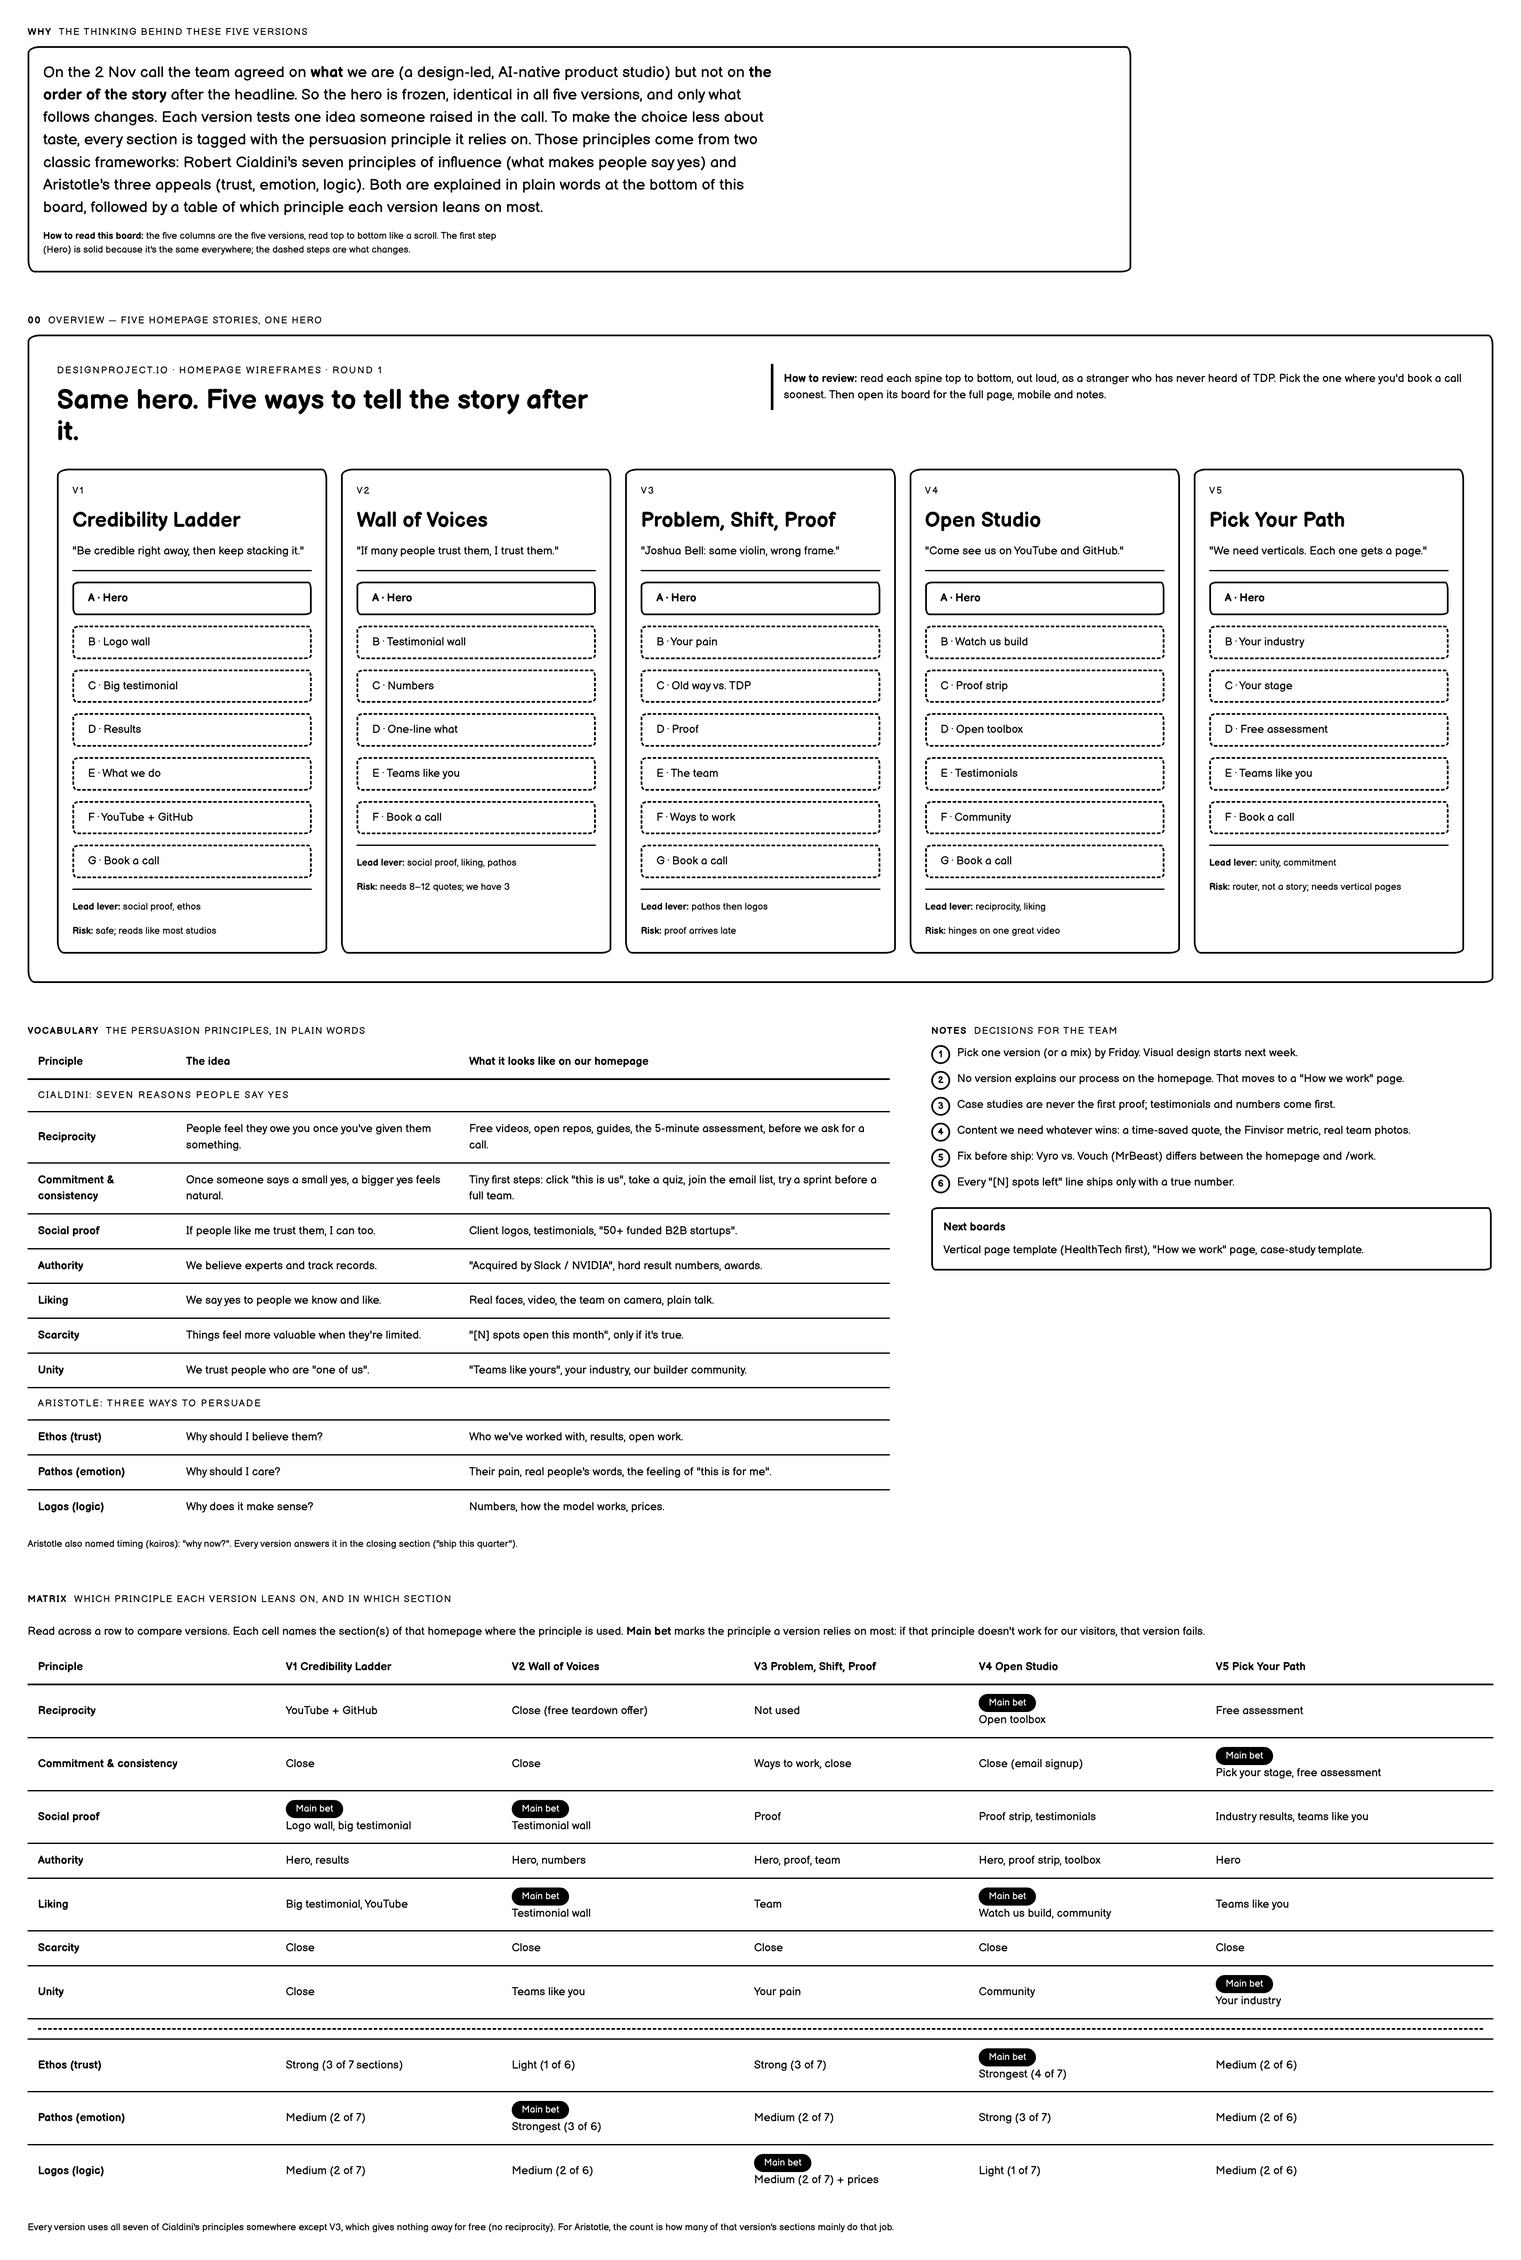
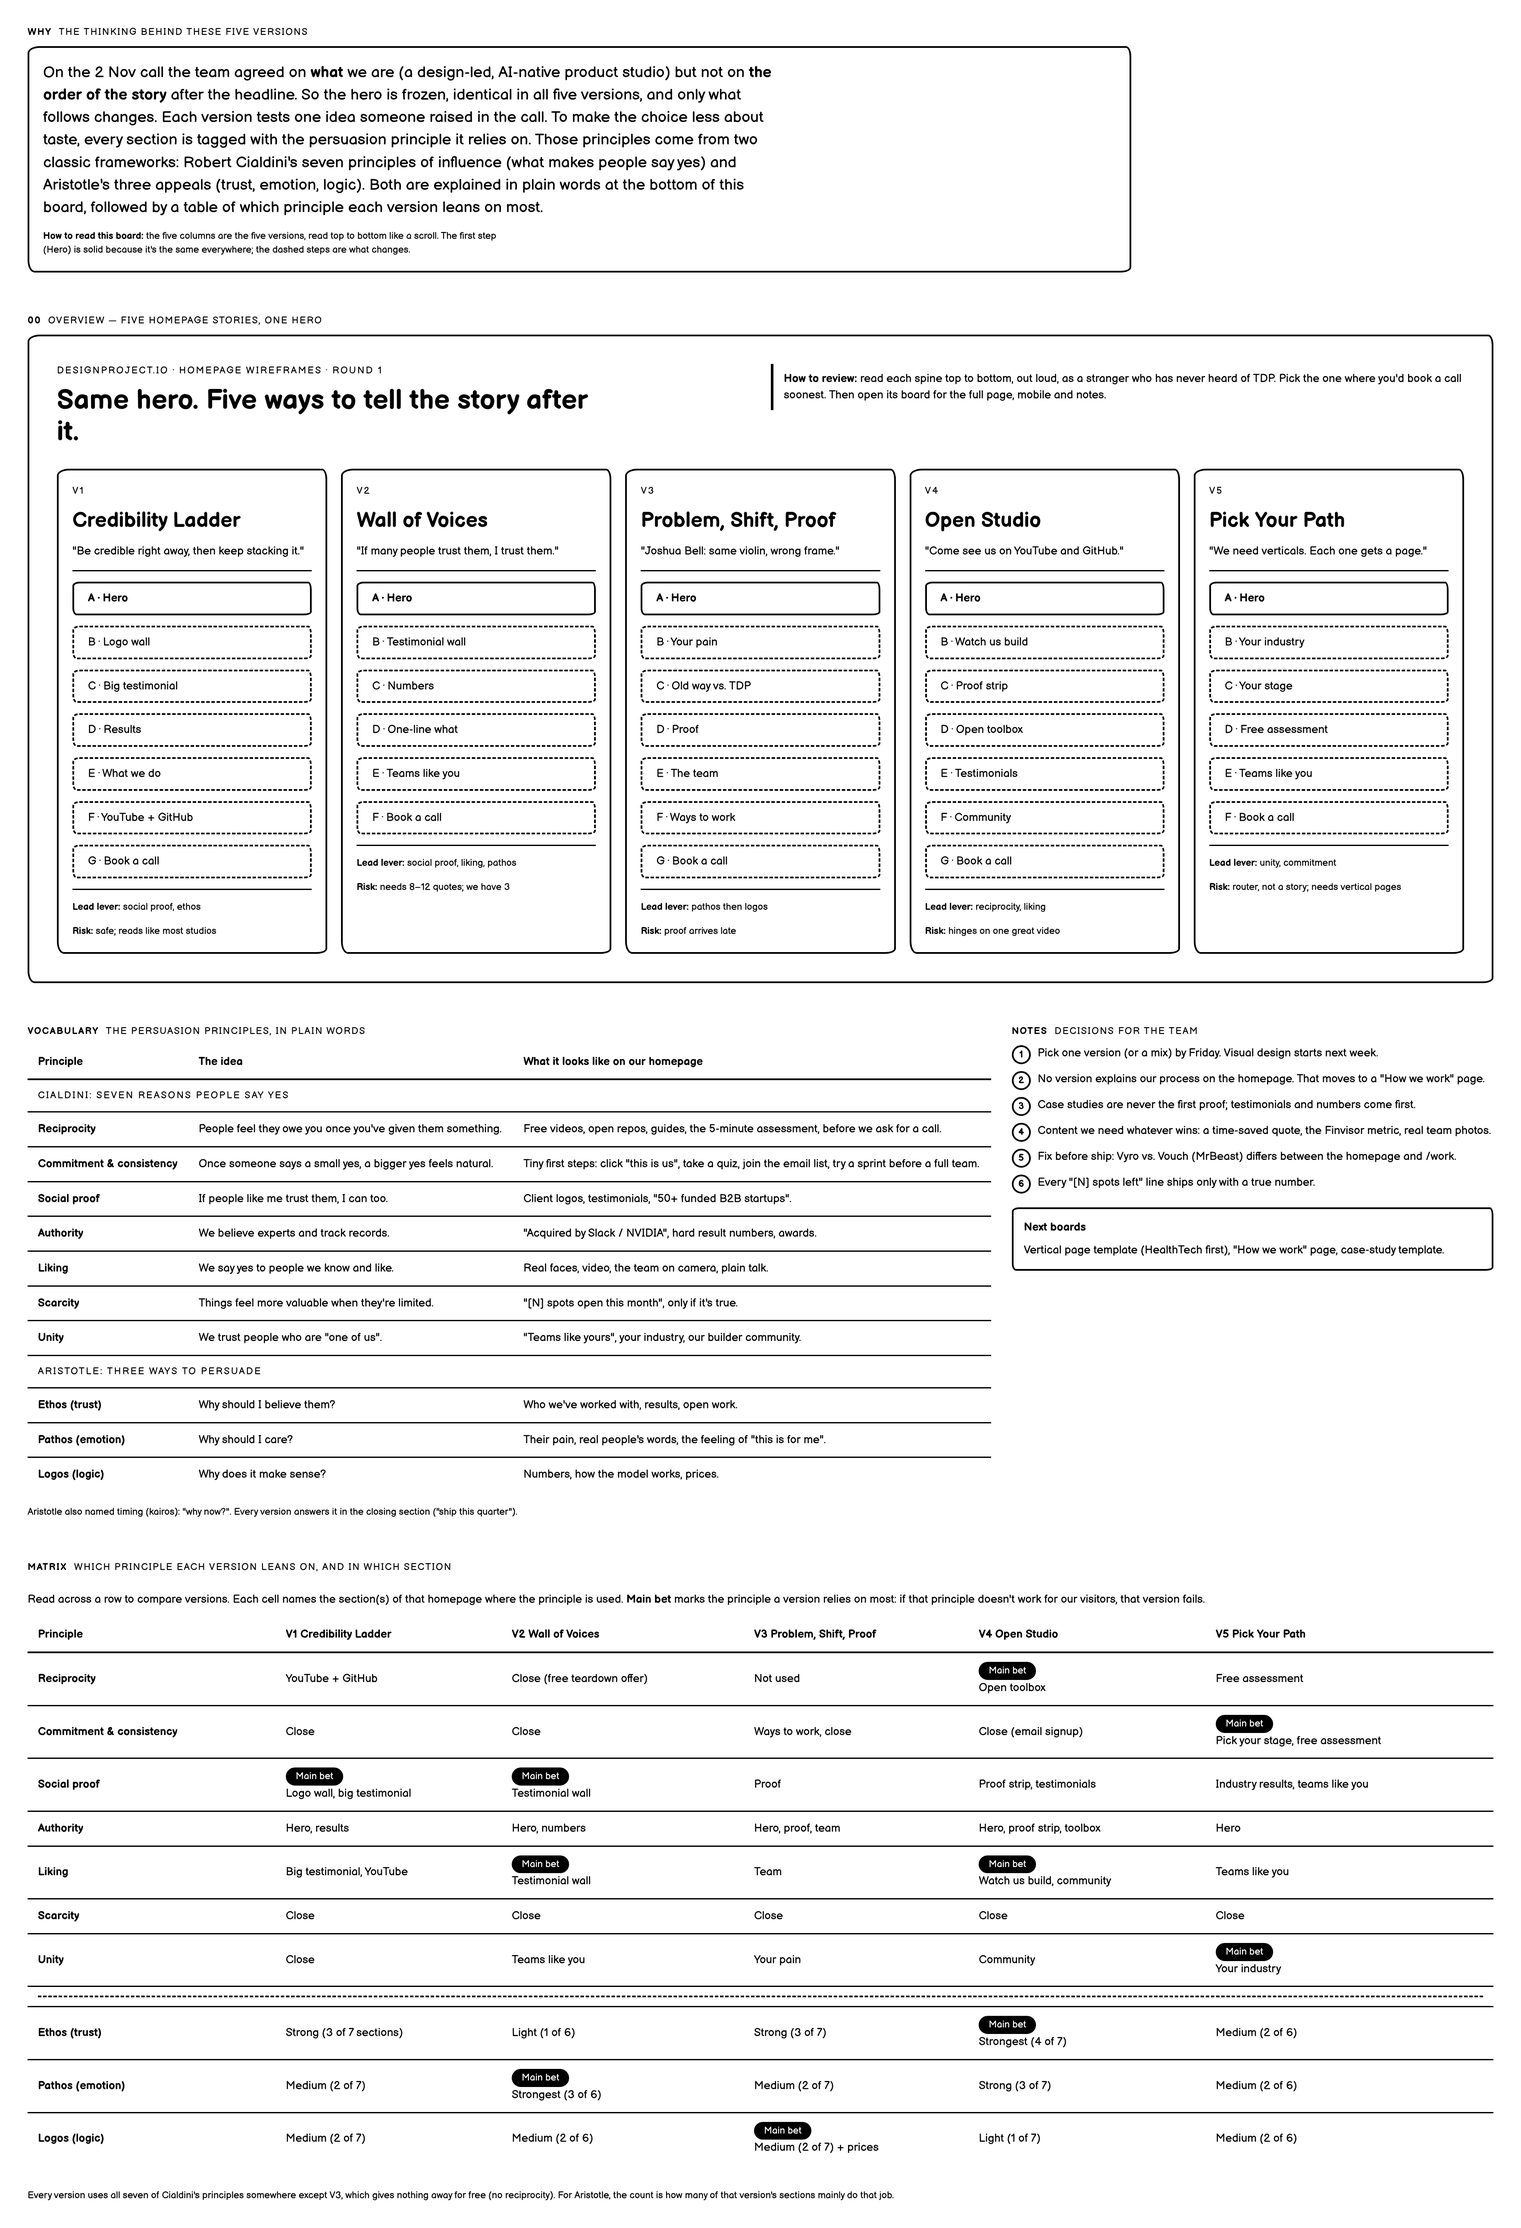
fix(wireframes): overview reflows to any screen width
The overview used fixed 1700px sections, so browsers narrower than that
scrolled sideways. Adds .board--doc to the skill (fluid board, 5→3→1 column
grid, stacked splits, tables that scroll inside their own box) and drops every
inline width from the overview. Checked at 1920, 1440, 1280, 1024, 768, 390px.

Changed region(s): [[0.0312, 0.0312, 0.9666, 0.6855], [0.0312, 0.7167, 0.9666, 0.9659], [0.4989, 0.1558, 0.7483, 0.187]]

diff --git a/wireframes/designproject-io/00-overview.standalone.html b/wireframes/designproject-io/00-overview.standalone.html
@@ -638,6 +638,24 @@ small { font-size: var(--fs-xs); }
 .board__intro .card { max-width: 1280px; }
 .board__intro p { max-width: 82ch; }
 
+/* document board: overview and summary boards that reflow to any viewport.
+   Device frames (.screen--desktop etc.) keep their fixed widths; this is for
+   boards made of cards, tables and notes. */
+.board--doc { max-width: 1764px; margin-inline: auto; }
+.board--doc > * { width: 100%; min-width: 0; }
+.grid--5 { grid-template-columns: repeat(5, minmax(0, 1fr)); }
+.table-scroll { overflow-x: auto; max-width: 100%; }
+.table-scroll > .table { min-width: 720px; }
+@media (max-width: 1200px) {
+  .board--doc .grid--5 { grid-template-columns: repeat(3, minmax(0, 1fr)); }
+  .board--doc .split { grid-template-columns: minmax(0, 1fr); }
+}
+@media (max-width: 720px) {
+  .board--doc { padding: var(--s-4); gap: var(--s-6); }
+  .board--doc .grid--5 { grid-template-columns: minmax(0, 1fr); }
+  .board--doc .p-6 { padding: var(--s-4); }
+}
+
 .screen--mobile .section       { padding: var(--s-6) var(--s-4); }
 .screen--mobile .section--hero { padding: var(--s-7) var(--s-4) var(--s-6); }
 .screen--mobile .display       { font-size: var(--fs-2xl); }
@@ -665,9 +683,9 @@ small { font-size: var(--fs-xs); }
 </head>
 <body>
 
-<main class="board board--column">
+<main class="board board--column board--doc">
 
-  <section class="board__intro" style="width:1700px">
+  <section class="board__intro">
     <div class="screen__caption"><b>Why</b> the thinking behind these five versions</div>
     <div class="card stack">
       <p class="lead">On the 2 Nov call the team agreed on <strong>what</strong> we are (a design-led, AI-native product studio) but not on <strong>the order of the story</strong> after the headline. So the hero is frozen, identical in all five versions, and only what follows changes. Each version tests one idea someone raised in the call. To make the choice less about taste, every section is tagged with the persuasion principle it relies on. Those principles come from two classic frameworks: Robert Cialdini's seven principles of influence (what makes people say yes) and Aristotle's three appeals (trust, emotion, logic). Both are explained in plain words at the bottom of this board, followed by a table of which principle each version leans on most.</p>
@@ -675,7 +693,7 @@ small { font-size: var(--fs-xs); }
     </div>
   </section>
 
-  <section style="width:1700px">
+  <section>
     <div class="screen__caption"><b>00</b> Overview — five homepage stories, one hero</div>
     <div class="card stack stack--loose p-6">
       <div class="split">
@@ -688,7 +706,7 @@ small { font-size: var(--fs-xs); }
         </div>
       </div>
 
-      <div class="grid" style="grid-template-columns:repeat(5,minmax(0,1fr))">
+      <div class="grid grid--5">
 
         <div class="card stack">
           <p class="eyebrow">V1</p>
@@ -777,11 +795,11 @@ small { font-size: var(--fs-xs); }
     </div>
   </section>
 
-  <div class="row row--top" style="gap:48px">
+  <div class="split split--aside">
 
-    <section style="width:1000px">
+    <section>
       <div class="screen__caption"><b>Vocabulary</b> the persuasion principles, in plain words</div>
-      <table class="table">
+      <div class="table-scroll"><table class="table">
         <thead><tr><th>Principle</th><th>The idea</th><th>What it looks like on our homepage</th></tr></thead>
         <tbody>
           <tr><td colspan="3"><p class="eyebrow">Cialdini: seven reasons people say yes</p></td></tr>
@@ -797,11 +815,11 @@ small { font-size: var(--fs-xs); }
           <tr><td><strong>Pathos (emotion)</strong></td><td>Why should I care?</td><td>Their pain, real people's words, the feeling of "this is for me".</td></tr>
           <tr><td><strong>Logos (logic)</strong></td><td>Why does it make sense?</td><td>Numbers, how the model works, prices.</td></tr>
         </tbody>
-      </table>
+      </table></div>
       <p class="hint mt-4">Aristotle also named timing (kairos): "why now?". Every version answers it in the closing section ("ship this quarter").</p>
     </section>
 
-    <section style="width:650px">
+    <section>
       <div class="screen__caption"><b>Notes</b> decisions for the team</div>
       <ol class="notes">
         <li><span class="pin">1</span><span>Pick one version (or a mix) by Friday. Visual design starts next week.</span></li>
@@ -819,10 +837,10 @@ small { font-size: var(--fs-xs); }
 
   </div>
 
-  <section class="stack" style="width:1700px">
+  <section class="stack">
     <div class="screen__caption"><b>Matrix</b> which principle each version leans on, and in which section</div>
     <p class="muted">Read across a row to compare versions. Each cell names the section(s) of that homepage where the principle is used. <strong>Main bet</strong> marks the principle a version relies on most: if that principle doesn't work for our visitors, that version fails.</p>
-    <table class="table">
+    <div class="table-scroll"><table class="table">
       <thead><tr><th>Principle</th><th>V1 Credibility Ladder</th><th>V2 Wall of Voices</th><th>V3 Problem, Shift, Proof</th><th>V4 Open Studio</th><th>V5 Pick Your Path</th></tr></thead>
       <tbody>
           <tr><td><strong>Reciprocity</strong></td><td>YouTube + GitHub</td><td>Close (free teardown offer)</td><td><span class="muted">Not used</span></td><td><span class="badge badge--solid">Main bet</span><br>Open toolbox</td><td>Free assessment</td></tr>
@@ -837,7 +855,7 @@ small { font-size: var(--fs-xs); }
           <tr><td><strong>Pathos (emotion)</strong></td><td>Medium (2 of 7)</td><td><span class="badge badge--solid">Main bet</span><br>Strongest (3 of 6)</td><td>Medium (2 of 7)</td><td>Strong (3 of 7)</td><td>Medium (2 of 6)</td></tr>
           <tr><td><strong>Logos (logic)</strong></td><td>Medium (2 of 7)</td><td>Medium (2 of 6)</td><td><span class="badge badge--solid">Main bet</span><br>Medium (2 of 7) + prices</td><td>Light (1 of 7)</td><td>Medium (2 of 6)</td></tr>
       </tbody>
-    </table>
+    </table></div>
     <p class="hint mt-4">Every version uses all seven of Cialdini's principles somewhere except V3, which gives nothing away for free (no reciprocity). For Aristotle, the count is how many of that version's sections mainly do that job.</p>
   </section>
 

diff --git a/wireframes/designproject-io/00-overview.html b/wireframes/designproject-io/00-overview.html
@@ -8,9 +8,9 @@
 </head>
 <body>
 
-<main class="board board--column">
+<main class="board board--column board--doc">
 
-  <section class="board__intro" style="width:1700px">
+  <section class="board__intro">
     <div class="screen__caption"><b>Why</b> the thinking behind these five versions</div>
     <div class="card stack">
       <p class="lead">On the 2 Nov call the team agreed on <strong>what</strong> we are (a design-led, AI-native product studio) but not on <strong>the order of the story</strong> after the headline. So the hero is frozen, identical in all five versions, and only what follows changes. Each version tests one idea someone raised in the call. To make the choice less about taste, every section is tagged with the persuasion principle it relies on. Those principles come from two classic frameworks: Robert Cialdini's seven principles of influence (what makes people say yes) and Aristotle's three appeals (trust, emotion, logic). Both are explained in plain words at the bottom of this board, followed by a table of which principle each version leans on most.</p>
@@ -18,7 +18,7 @@
     </div>
   </section>
 
-  <section style="width:1700px">
+  <section>
     <div class="screen__caption"><b>00</b> Overview — five homepage stories, one hero</div>
     <div class="card stack stack--loose p-6">
       <div class="split">
@@ -31,7 +31,7 @@
         </div>
       </div>
 
-      <div class="grid" style="grid-template-columns:repeat(5,minmax(0,1fr))">
+      <div class="grid grid--5">
 
         <div class="card stack">
           <p class="eyebrow">V1</p>
@@ -120,11 +120,11 @@
     </div>
   </section>
 
-  <div class="row row--top" style="gap:48px">
+  <div class="split split--aside">
 
-    <section style="width:1000px">
+    <section>
       <div class="screen__caption"><b>Vocabulary</b> the persuasion principles, in plain words</div>
-      <table class="table">
+      <div class="table-scroll"><table class="table">
         <thead><tr><th>Principle</th><th>The idea</th><th>What it looks like on our homepage</th></tr></thead>
         <tbody>
           <tr><td colspan="3"><p class="eyebrow">Cialdini: seven reasons people say yes</p></td></tr>
@@ -140,11 +140,11 @@
           <tr><td><strong>Pathos (emotion)</strong></td><td>Why should I care?</td><td>Their pain, real people's words, the feeling of "this is for me".</td></tr>
           <tr><td><strong>Logos (logic)</strong></td><td>Why does it make sense?</td><td>Numbers, how the model works, prices.</td></tr>
         </tbody>
-      </table>
+      </table></div>
       <p class="hint mt-4">Aristotle also named timing (kairos): "why now?". Every version answers it in the closing section ("ship this quarter").</p>
     </section>
 
-    <section style="width:650px">
+    <section>
       <div class="screen__caption"><b>Notes</b> decisions for the team</div>
       <ol class="notes">
         <li><span class="pin">1</span><span>Pick one version (or a mix) by Friday. Visual design starts next week.</span></li>
@@ -162,10 +162,10 @@
 
   </div>
 
-  <section class="stack" style="width:1700px">
+  <section class="stack">
     <div class="screen__caption"><b>Matrix</b> which principle each version leans on, and in which section</div>
     <p class="muted">Read across a row to compare versions. Each cell names the section(s) of that homepage where the principle is used. <strong>Main bet</strong> marks the principle a version relies on most: if that principle doesn't work for our visitors, that version fails.</p>
-    <table class="table">
+    <div class="table-scroll"><table class="table">
       <thead><tr><th>Principle</th><th>V1 Credibility Ladder</th><th>V2 Wall of Voices</th><th>V3 Problem, Shift, Proof</th><th>V4 Open Studio</th><th>V5 Pick Your Path</th></tr></thead>
       <tbody>
           <tr><td><strong>Reciprocity</strong></td><td>YouTube + GitHub</td><td>Close (free teardown offer)</td><td><span class="muted">Not used</span></td><td><span class="badge badge--solid">Main bet</span><br>Open toolbox</td><td>Free assessment</td></tr>
@@ -180,7 +180,7 @@
           <tr><td><strong>Pathos (emotion)</strong></td><td>Medium (2 of 7)</td><td><span class="badge badge--solid">Main bet</span><br>Strongest (3 of 6)</td><td>Medium (2 of 7)</td><td>Strong (3 of 7)</td><td>Medium (2 of 6)</td></tr>
           <tr><td><strong>Logos (logic)</strong></td><td>Medium (2 of 7)</td><td>Medium (2 of 6)</td><td><span class="badge badge--solid">Main bet</span><br>Medium (2 of 7) + prices</td><td>Light (1 of 7)</td><td>Medium (2 of 6)</td></tr>
       </tbody>
-    </table>
+    </table></div>
     <p class="hint mt-4">Every version uses all seven of Cialdini's principles somewhere except V3, which gives nothing away for free (no reciprocity). For Aristotle, the count is how many of that version's sections mainly do that job.</p>
   </section>
 

diff --git a/.agents/skills/create-wireframe/assets/wireframe.css b/.agents/skills/create-wireframe/assets/wireframe.css
@@ -631,6 +631,24 @@ small { font-size: var(--fs-xs); }
 .board__intro .card { max-width: 1280px; }
 .board__intro p { max-width: 82ch; }
 
+/* document board: overview and summary boards that reflow to any viewport.
+   Device frames (.screen--desktop etc.) keep their fixed widths; this is for
+   boards made of cards, tables and notes. */
+.board--doc { max-width: 1764px; margin-inline: auto; }
+.board--doc > * { width: 100%; min-width: 0; }
+.grid--5 { grid-template-columns: repeat(5, minmax(0, 1fr)); }
+.table-scroll { overflow-x: auto; max-width: 100%; }
+.table-scroll > .table { min-width: 720px; }
+@media (max-width: 1200px) {
+  .board--doc .grid--5 { grid-template-columns: repeat(3, minmax(0, 1fr)); }
+  .board--doc .split { grid-template-columns: minmax(0, 1fr); }
+}
+@media (max-width: 720px) {
+  .board--doc { padding: var(--s-4); gap: var(--s-6); }
+  .board--doc .grid--5 { grid-template-columns: minmax(0, 1fr); }
+  .board--doc .p-6 { padding: var(--s-4); }
+}
+
 .screen--mobile .section       { padding: var(--s-6) var(--s-4); }
 .screen--mobile .section--hero { padding: var(--s-7) var(--s-4) var(--s-6); }
 .screen--mobile .display       { font-size: var(--fs-2xl); }

diff --git a/.agents/skills/create-wireframe/references/components.md b/.agents/skills/create-wireframe/references/components.md
@@ -262,6 +262,10 @@ A homepage is one tall `.screen--desktop` made of stacked `.section` blocks.
 - `.board__intro` is a full-width block above the screens for the board's rationale:
   why this structure, what it is based on, and its main trade-off. Put it first in
   `.board`, with a `<b>Why</b>` caption and a `.card` holding one `.lead` paragraph.
+- `.board--doc` makes a board of cards, tables and notes (an overview, a summary)
+  reflow to any viewport instead of fixed widths: `.grid--5` drops to 3 then 1
+  column, `.split` stacks, and wide tables go in `.table-scroll` so they scroll inside
+  their box, never the page. Device frames keep their fixed widths.
 - `.flow__step--quiet` (dashed) is the "old way" or not-yet state in a before/after.
 
 ## Adding a component
